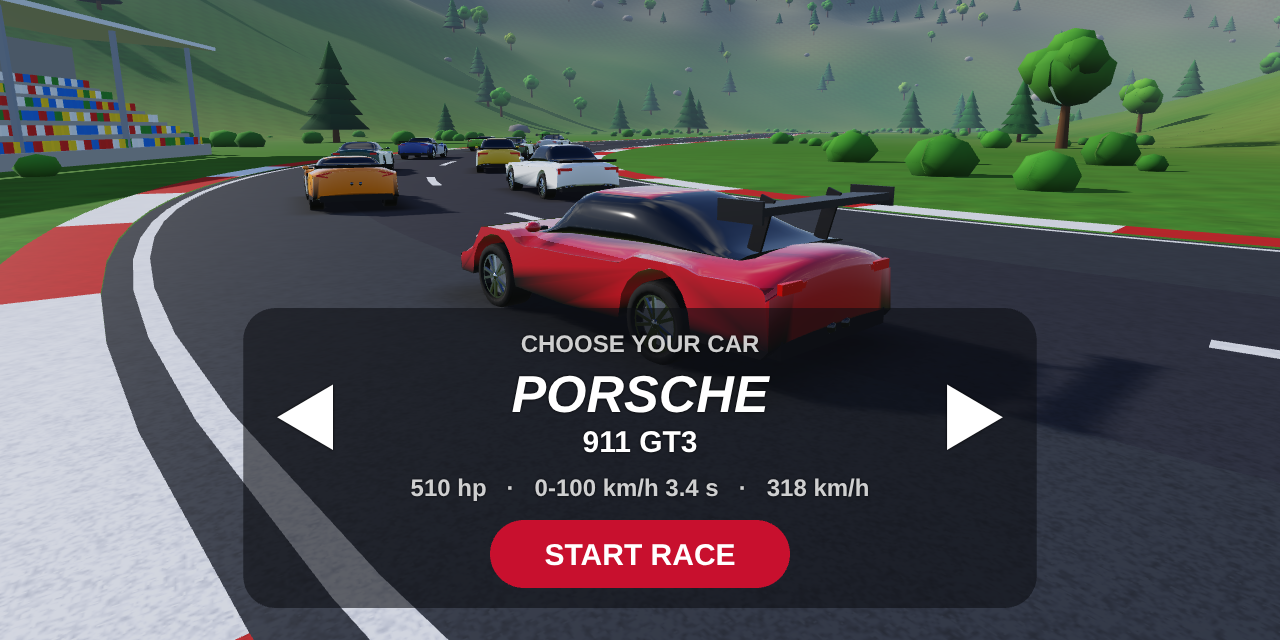
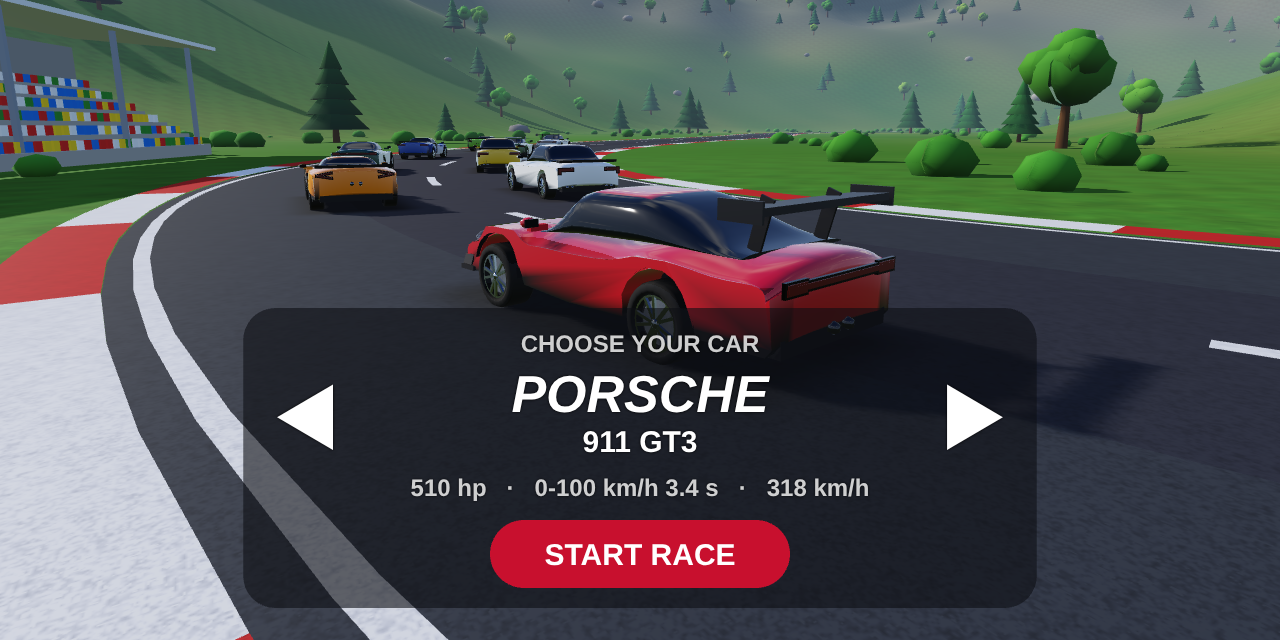
Car bodies closer to the real cars: fender crowns, hips, narrower greenhouses
Per-car hood dip, rear haunches, front track and greenhouse width; dark
wheel-well liners; mirrors on stalks; glass headlights; tail lights in
dark housings so they read on any paint; a larger Vantage grille. The
preview export can isolate one car for reference shots.

Claude-Session: https://claude.ai/code/session_01PALYvBmcq9tb4KfgW5X3kT

diff --git a/app/src/main/java/com/titovpower/racegame/CarModel.kt b/app/src/main/java/com/titovpower/racegame/CarModel.kt
@@ -35,6 +35,15 @@ class CarStyle(
     val taillights: Taillights,
     val sideIntake: Boolean = false,
     val sideBlade: Boolean = false,
+    /** How far the front fender crowns stand above the hood's center line (911: tall fenders, low hood). */
+    val hoodDip: Float = 0.03f,
+    /** Rear fender haunches above the deck. */
+    val hipRise: Float = 0.03f,
+    /** Plan-view width at the front axle relative to the rear (wide rear hips < 1). */
+    val frontWidth: Float = 0.97f,
+    /** Greenhouse half-width at its base and at the roof, relative to the body. */
+    val cabinBase: Float = 0.84f,
+    val cabinTop: Float = 0.6f,
 ) {
     enum class Grille { LAMBO, PORSCHE, KIDNEY, PANAMERICANA, SINGLEFRAME, ASTON }
     enum class Headlights { Y_SHAPE, ROUND, ANGULAR, SLIM }
@@ -64,9 +73,11 @@ object CarModel {
 
     private val TRIM = Rgb.hex(0x16171A)
     private val CARBON = Rgb.hex(0x25272B)
+    private val WELL = Rgb.hex(0x0E0E10)
     private val GLASS = Rgb.hex(0x0C131C)
     private val CHROME = Rgb.hex(0xC9CED4)
-    private val LENS = Rgb(0.84f, 0.88f, 0.93f)
+    /** Clear headlight glass over a dark reflector: reads as glass, with the light signature in white. */
+    private val LENS = Rgb(0.3f, 0.32f, 0.36f)
     private val DRL = Rgb(1f, 1f, 1f)
 
     val LAMBORGHINI = CarStyle(
@@ -75,6 +86,7 @@ object CarModel {
         windshieldZ = 0.9f, roofFrontZ = -0.05f, roofRearZ = -0.7f, rearGlassZ = -1.05f, roofY = 1.16f,
         grille = CarStyle.Grille.LAMBO, headlights = CarStyle.Headlights.Y_SHAPE, wing = CarStyle.Wing.LIP,
         exhaust = CarStyle.Exhaust.CENTER_HIGH, taillights = CarStyle.Taillights.Y_SHAPE, sideIntake = true,
+        hoodDip = 0.02f, hipRise = 0.04f, frontWidth = 0.98f, cabinBase = 0.78f, cabinTop = 0.52f,
     )
     val PORSCHE = CarStyle(
         "911", 4.57f, 0.925f, 1.30f, -1.16f, 0.32f, 0.40f,
@@ -82,6 +94,7 @@ object CarModel {
         windshieldZ = 0.75f, roofFrontZ = 0.15f, roofRearZ = -0.55f, rearGlassZ = -1.85f, roofY = 1.28f,
         grille = CarStyle.Grille.PORSCHE, headlights = CarStyle.Headlights.ROUND, wing = CarStyle.Wing.SWAN_NECK,
         exhaust = CarStyle.Exhaust.CENTER_PAIR, taillights = CarStyle.Taillights.FULL_BAR,
+        hoodDip = 0.1f, hipRise = 0.07f, frontWidth = 0.93f, cabinBase = 0.8f, cabinTop = 0.6f,
     )
     val BMW = CarStyle(
         "m4", 4.79f, 0.945f, 1.50f, -1.36f, 0.30f, 0.45f,
@@ -89,6 +102,7 @@ object CarModel {
         windshieldZ = 0.6f, roofFrontZ = -0.15f, roofRearZ = -0.95f, rearGlassZ = -1.6f, roofY = 1.39f,
         grille = CarStyle.Grille.KIDNEY, headlights = CarStyle.Headlights.ANGULAR, wing = CarStyle.Wing.LIP,
         exhaust = CarStyle.Exhaust.QUAD, taillights = CarStyle.Taillights.L_SHAPE,
+        hoodDip = 0.0f, hipRise = 0.03f, frontWidth = 0.98f, cabinBase = 0.86f, cabinTop = 0.66f,
     )
     val MERCEDES = CarStyle(
         "amggt", 4.55f, 1.0f, 1.25f, -1.38f, 0.30f, 0.42f,
@@ -96,6 +110,7 @@ object CarModel {
         windshieldZ = 0.3f, roofFrontZ = -0.35f, roofRearZ = -0.95f, rearGlassZ = -1.9f, roofY = 1.28f,
         grille = CarStyle.Grille.PANAMERICANA, headlights = CarStyle.Headlights.SLIM, wing = CarStyle.Wing.FIXED,
         exhaust = CarStyle.Exhaust.CENTER_PAIR, taillights = CarStyle.Taillights.SLIM_PAIR,
+        hoodDip = 0.05f, hipRise = 0.06f, frontWidth = 0.95f, cabinBase = 0.8f, cabinTop = 0.58f,
     )
     val AUDI = CarStyle(
         "r8", 4.43f, 0.97f, 1.34f, -1.31f, 0.32f, 0.42f,
@@ -103,6 +118,7 @@ object CarModel {
         windshieldZ = 0.85f, roofFrontZ = 0f, roofRearZ = -0.65f, rearGlassZ = -1.0f, roofY = 1.24f,
         grille = CarStyle.Grille.SINGLEFRAME, headlights = CarStyle.Headlights.SLIM, wing = CarStyle.Wing.LIP,
         exhaust = CarStyle.Exhaust.OVAL_PAIR, taillights = CarStyle.Taillights.SLIM_PAIR, sideBlade = true,
+        hoodDip = 0.04f, hipRise = 0.04f, frontWidth = 0.97f, cabinBase = 0.78f, cabinTop = 0.55f,
     )
     val ASTON = CarStyle(
         "vantage", 4.50f, 0.99f, 1.38f, -1.32f, 0.30f, 0.44f,
@@ -110,6 +126,7 @@ object CarModel {
         windshieldZ = 0.4f, roofFrontZ = -0.25f, roofRearZ = -0.9f, rearGlassZ = -1.8f, roofY = 1.27f,
         grille = CarStyle.Grille.ASTON, headlights = CarStyle.Headlights.SLIM, wing = CarStyle.Wing.NONE,
         exhaust = CarStyle.Exhaust.QUAD, taillights = CarStyle.Taillights.FULL_BAR,
+        hoodDip = 0.04f, hipRise = 0.06f, frontWidth = 0.95f, cabinBase = 0.82f, cabinTop = 0.58f,
     )
 
     fun styleFor(spec: CarSpec): CarStyle = when (spec) {
@@ -173,6 +190,16 @@ object CarModel {
         return top
     }
 
+    /** 1 over the front fenders (between the nose and the windshield), fading at both ends. */
+    private fun hoodZone(st: CarStyle, z: Float): Float =
+        smooth((st.front - 0.05f - z) / 0.35f) * smooth((z - st.windshieldZ + 0.05f) / 0.35f)
+
+    /** 1 over the rear wheels. */
+    private fun hipZone(st: CarStyle, z: Float): Float {
+        val t = clamp(abs(z - st.rearAxle) / 0.8f, 0f, 1f)
+        return 0.5f + 0.5f * cos(t * PI.toFloat())
+    }
+
     fun body(st: CarStyle, paint: Rgb): FloatArray {
         val b = MeshBuilder(1 shl 15)
         val profile = sideProfile(st)
@@ -184,14 +211,20 @@ object CarModel {
         val rings = us.map { u ->
             val s = sqrt(maxOf(0f, 1f - u * u)).coerceAtLeast(0.3f)
             val shrink = 1f - s
+            // Fender crowns: 0 on the center line, full height towards the sides, before the shoulder rounds off.
+            val crown = smooth((abs(u) - 0.12f) / 0.5f)
             profile.map { p ->
                 // Never pull the shoulders below the wheel arches: that leaves fender bulges.
-                val y = if (p.round == 0f) p.y else maxOf(p.y - shrink * p.round * 0.22f, archTop(st, p.z))
+                val rise = (st.hoodDip * hoodZone(st, p.z) + st.hipRise * hipZone(st, p.z)) * crown * p.round
+                val y = if (p.round == 0f) p.y else maxOf(p.y - shrink * p.round * 0.22f + rise, archTop(st, p.z))
                 val z = p.z * (1f - shrink * p.round * 0.04f)
-                // Rounder nose and tail in plan view, and a slight tumblehome towards the top.
+                // Rounder nose and tail in plan view, narrower front track, tumblehome towards the top and
+                // a tuck-under towards the sills.
                 val taper = 1f - 0.16f * clamp((z - (st.front - 0.38f)) / 0.38f, 0f, 1f) -
                     0.08f * clamp((st.rear + 0.3f - z) / 0.3f, 0f, 1f)
-                V3(u * taper * (hw - 0.06f * clamp((y - 0.55f) / 0.35f, 0f, 1f)), y, z)
+                val plan = st.frontWidth + (1f - st.frontWidth) * smooth((st.frontAxle - z) / (st.frontAxle - st.rearAxle - 0.3f))
+                val tuck = 0.05f * clamp((0.5f - y) / 0.2f, 0f, 1f)
+                V3(u * taper * plan * (hw - 0.06f * clamp((y - 0.55f) / 0.35f, 0f, 1f) - tuck), y, z)
             }
         }
         val sill = 0.36f
@@ -212,15 +245,19 @@ object CarModel {
         headlights(b, st)
         wing(b, st, paint)
         exhaust(b, st)
-        // Side mirrors.
+        tailHousings(b, st)
+        // Side mirrors on short stalks at the base of the A-pillars.
         for (side in floatArrayOf(-1f, 1f)) {
-            val z = st.windshieldZ - 0.15f
-            val y = st.topY(z) + 0.05f
+            val z = st.windshieldZ - 0.18f
+            val y = st.topY(z) + 0.1f
             b.gloss = 0.3f
-            b.box(side * (hw - 0.14f), y - 0.02f, z, 0.07f, 0.015f, 0.03f, TRIM)
+            b.orientedBox(V3(side * (hw - 0.1f), y - 0.06f, z + 0.02f), V3(0.1f, 0f, 0f), V3(0f, 0.03f, 0f), V3(0f, 0f, 0.035f), paint)
             b.gloss = 0.8f
-            b.blob(V3(side * (hw - 0.04f), y, z - 0.02f), 0.09f, 0.055f, 0.07f, 4, 8, paint)
+            b.blob(V3(side * (hw + 0.02f), y, z), 0.09f, 0.055f, 0.065f, 5, 10, paint)
+            b.gloss = 0.95f
+            b.orientedBox(V3(side * (hw + 0.02f), y, z - 0.06f), V3(0.075f, 0f, 0f), V3(0f, 0.04f, 0f), V3(0f, 0f, 0.008f), GLASS)
         }
+        wheelWells(b, st)
         // Side details.
         for (side in floatArrayOf(-1f, 1f)) {
             val x = side * (hw - 0.02f)
@@ -244,6 +281,33 @@ object CarModel {
         }
         b.gloss = 0f
         return b.toArray()
+    }
+
+    /** Dark liners inside the wheel arches, so you can't see through the body above the tires. */
+    private fun wheelWells(b: MeshBuilder, st: CarStyle) {
+        val r = ARCH_RADIUS + 0.01f
+        val hw = st.halfWidth
+        b.gloss = 0.05f
+        val steps = 12
+        for (axle in floatArrayOf(st.frontAxle, st.rearAxle)) for (side in floatArrayOf(-1f, 1f)) {
+            val xo = side * (hw - 0.03f)
+            val xi = side * (hw - 0.42f)
+            val above = V3(xo, 3f, axle)
+            for (k in 0 until steps) {
+                val a0 = (k * PI / steps).toFloat()
+                val a1 = ((k + 1) * PI / steps).toFloat()
+                val p0 = V3(0f, WHEEL_RADIUS + sin(a0) * r, axle + cos(a0) * r)
+                val p1 = V3(0f, WHEEL_RADIUS + sin(a1) * r, axle + cos(a1) * r)
+                // Liner facing down towards the wheel.
+                b.quad(V3(xo, p0.y, p0.z), V3(xo, p1.y, p1.z), V3(xi, p1.y, p1.z), V3(xi, p0.y, p0.z), WELL, above)
+                // Inner wall facing out.
+                b.tri(V3(xi, WHEEL_RADIUS - 0.08f, axle), V3(xi, p0.y, p0.z), V3(xi, p1.y, p1.z), WELL, V3(0f, WHEEL_RADIUS, axle))
+            }
+            b.quad(
+                V3(xi, WHEEL_RADIUS - 0.08f, axle - r), V3(xi, WHEEL_RADIUS - 0.08f, axle + r),
+                V3(xi, WHEEL_RADIUS, axle + r), V3(xi, WHEEL_RADIUS, axle - r), WELL, V3(0f, WHEEL_RADIUS, axle),
+            )
+        }
     }
 
     /** Glass greenhouse with painted roof and pillars, lofted along z. */
@@ -272,7 +336,7 @@ object CarModel {
                 val sx = Math.copySign(Math.pow(abs(c).toDouble(), 0.5).toFloat(), c)
                 val sy = Math.copySign(Math.pow(abs(s).toDouble(), 0.5).toFloat(), s)
                 val t = (sy + 1f) * 0.5f
-                val w = hw * (0.84f + (0.6f - 0.84f) * t)
+                val w = hw * (st.cabinBase + (st.cabinTop - st.cabinBase) * t)
                 V3(sx * w, base + t * (roof - base), z)
             }
         }
@@ -349,11 +413,12 @@ object CarModel {
                 }
             }
             CarStyle.Grille.ASTON -> {
-                plate(b, listOf(-0.45f to 0.29f, 0.45f to 0.29f, 0.38f to 0.5f, -0.38f to 0.5f), zf - 0.14f, zf - 0.01f, TRIM)
+                // The wide, low grille mouth that dominates the Vantage's face, with horizontal vanes.
+                plate(b, listOf(-0.5f to 0.27f, 0.5f to 0.27f, 0.6f to 0.42f, 0.48f to 0.56f, -0.48f to 0.56f, -0.6f to 0.42f), zf - 0.16f, zf - 0.005f, TRIM)
                 b.gloss = 0.9f
-                for (k in 0..2) {
-                    val y = 0.34f + k * 0.055f
-                    b.orientedBox(V3(0f, y, zf - 0.005f), V3(0.42f - k * 0.02f, 0f, 0f), V3(0f, 0.006f, 0f), V3(0f, 0f, 0.01f), CHROME)
+                for (k in 0..4) {
+                    val y = 0.32f + k * 0.05f
+                    b.orientedBox(V3(0f, y, zf), V3(0.5f - abs(k - 2) * 0.03f, 0f, 0f), V3(0f, 0.005f, 0f), V3(0f, 0f, 0.01f), CHROME.scale(0.5f))
                 }
             }
         }
@@ -441,7 +506,7 @@ object CarModel {
     }
 
     private fun exhaust(b: MeshBuilder, st: CarStyle) {
-        val z = st.rear + 0.03f
+        val z = st.rear - 0.01f
         val tip = CHROME.scale(0.6f)
         b.gloss = 0.9f
         fun pipe(x: Float, y: Float, r: Float, w: Float = r) = b.blob(V3(x, y, z), w, r, 0.06f, 3, 12, tip)
@@ -453,12 +518,30 @@ object CarModel {
         }
     }
 
-    /** Tail lights for [st]: drawn dim normally and bright (unlit) while braking. */
-    fun tailLights(st: CarStyle): FloatArray {
-        val b = MeshBuilder()
-        b.gloss = 0.8f
-        val red = Rgb(0.85f, 0.04f, 0.04f)
-        val z = st.rear + 0.035f
+    /** Dark housings behind the tail lights, so they stand out against any paint color. */
+    private fun tailHousings(b: MeshBuilder, st: CarStyle) {
+        val lights = tailLights(st, Rgb(0.03f, 0.03f, 0.035f), grow = 0.02f, depth = 0.016f)
+        b.append(lights)
+    }
+
+    /** Tail lights for [st]: dark red glass normally, glowing while braking. */
+    fun tailLights(st: CarStyle): FloatArray = tailLights(st, Rgb(0.42f, 0.015f, 0.02f), 0f, 0.022f)
+
+    private fun tailLights(st: CarStyle, red: Rgb, grow: Float, depth: Float): FloatArray {
+        val b = object {
+            val m = MeshBuilder()
+            fun orientedBox(c: V3, u: V3, v: V3, w: V3, color: Rgb) {
+                val ul = u.length()
+                val vl = v.length()
+                m.orientedBox(c, u * ((ul + grow) / ul), v * ((vl + grow) / vl), w * (depth / w.length()), color)
+            }
+            var gloss: Float
+                get() = m.gloss
+                set(value) { m.gloss = value }
+            fun toArray() = m.toArray()
+        }
+        b.gloss = 0.95f
+        val z = st.rear - 0.012f
         val y = st.topY(st.rear + 0.05f) - 0.12f
         val hw = st.halfWidth
         when (st.taillights) {

diff --git a/tools/preview/src/preview/kotlin/Export.kt b/tools/preview/src/preview/kotlin/Export.kt
@@ -51,9 +51,10 @@ fun main(args: Array<String>) {
         val car = game.car
         val a = car.yaw + Math.toRadians(deg.toDouble()).toFloat()
         val dist = (System.getenv("PREVIEW_DIST") ?: "6.5").toFloat()
-        cam = floatArrayOf(car.x + sin(a) * dist, 1.7f, car.z + cos(a) * dist)
+        val camY = (System.getenv("PREVIEW_CAMY") ?: "1.7").toFloat()
+        cam = floatArrayOf(car.x + sin(a) * dist, camY, car.z + cos(a) * dist)
         target = floatArrayOf(car.x, 0.55f, car.z)
-        android.opengl.Matrix.perspectiveM(projection, 0, 45f, aspect, Scene.NEAR, Scene.FAR)
+        android.opengl.Matrix.perspectiveM(projection, 0, (System.getenv("PREVIEW_FOV") ?: "45").toFloat(), aspect, Scene.NEAR, Scene.FAR)
     }
     // Camera matrices as the renderer builds them (the sky only turns with the camera).
     val view = FloatArray(16)
@@ -71,8 +72,11 @@ fun main(args: Array<String>) {
         "skyVertex" to GlShaders.SKY_VERTEX, "skyFragment" to GlShaders.SKY_FRAGMENT,
         "shadowVertex" to GlShaders.SHADOW_VERTEX, "shadowFragment" to GlShaders.SHADOW_FRAGMENT,
     ).joinToString(",", "{", "}") { (k, v) -> "\"$k\":${str(v)}" }
-    val cars = scene.cars().joinToString(",", "[", "]") { """{"asset":"${it.asset}","model":${arr(it.model)},"braking":${it.braking}}""" }
-    val wheels = scene.wheels().joinToString(",", "[", "]") { arr(it) }
+    // PREVIEW_SOLO: only the player's car (racer 0 is the player) for model reference shots.
+    val solo = System.getenv("PREVIEW_SOLO") != null
+    val pIdx = game.racers.indexOf(game.player)
+    val cars = scene.cars().filterIndexed { k, _ -> !solo || k == pIdx }.joinToString(",", "[", "]") { """{"asset":"${it.asset}","model":${arr(it.model)},"braking":${it.braking}}""" }
+    val wheels = scene.wheels().filterIndexed { k, _ -> !solo || k / 4 == pIdx }.joinToString(",", "[", "]") { arr(it) }
     val sb = StringBuilder()
     sb.append("""{"shaders":$shaders,"viewProj":${arr(viewProj)},"skyInvViewProj":${arr(skyInv)},""")
     sb.append(""""lightVP0":${arr(scene.nearLightViewProj)},"lightVP1":${arr(scene.farLightViewProj)},"shadowSize":${Scene.SHADOW_MAP_SIZE},""")

diff --git a/app/src/main/java/com/titovpower/racegame/MeshBuilder.kt b/app/src/main/java/com/titovpower/racegame/MeshBuilder.kt
@@ -31,6 +31,11 @@ class MeshBuilder(initialCapacity: Int = 4096) {
         data[size++] = v
     }
 
+    /** Adds vertex data from another builder. */
+    fun append(other: FloatArray) {
+        for (v in other) put(v)
+    }
+
     fun vertex(p: V3, n: V3, c: Rgb, g: Float = gloss) {
         put(p.x); put(p.y); put(p.z)
         put(n.x); put(n.y); put(n.z)
